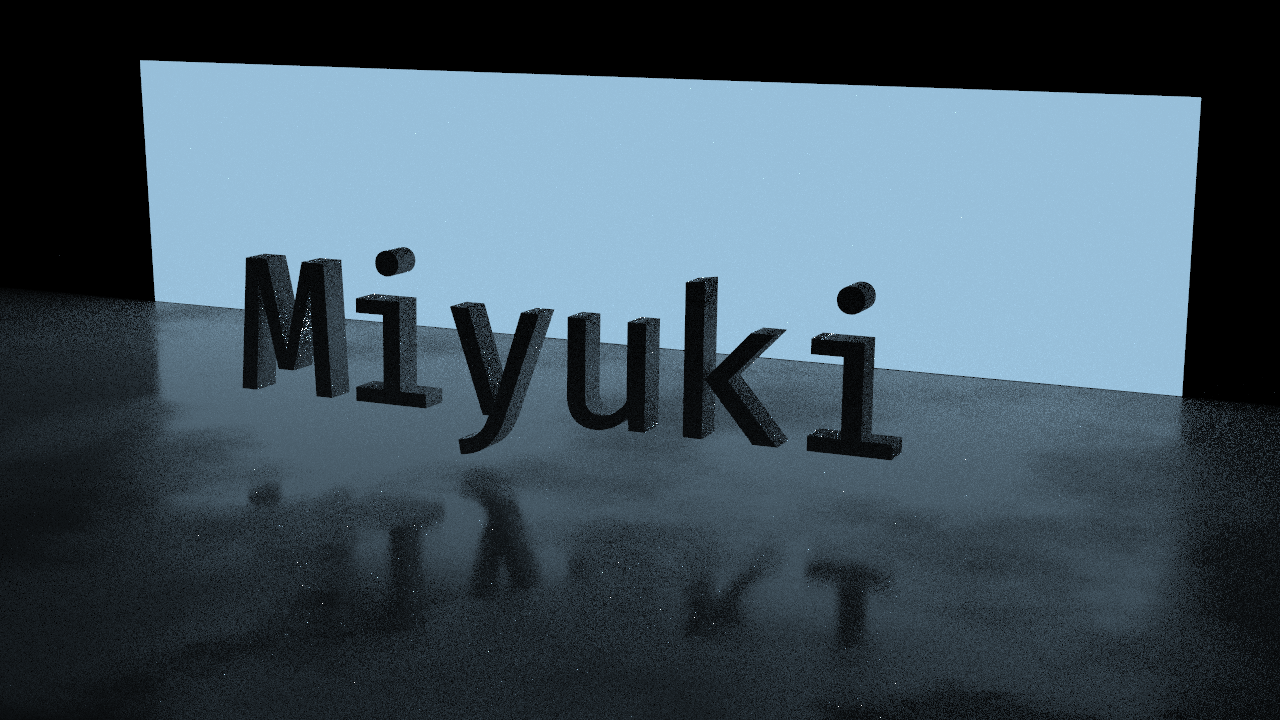
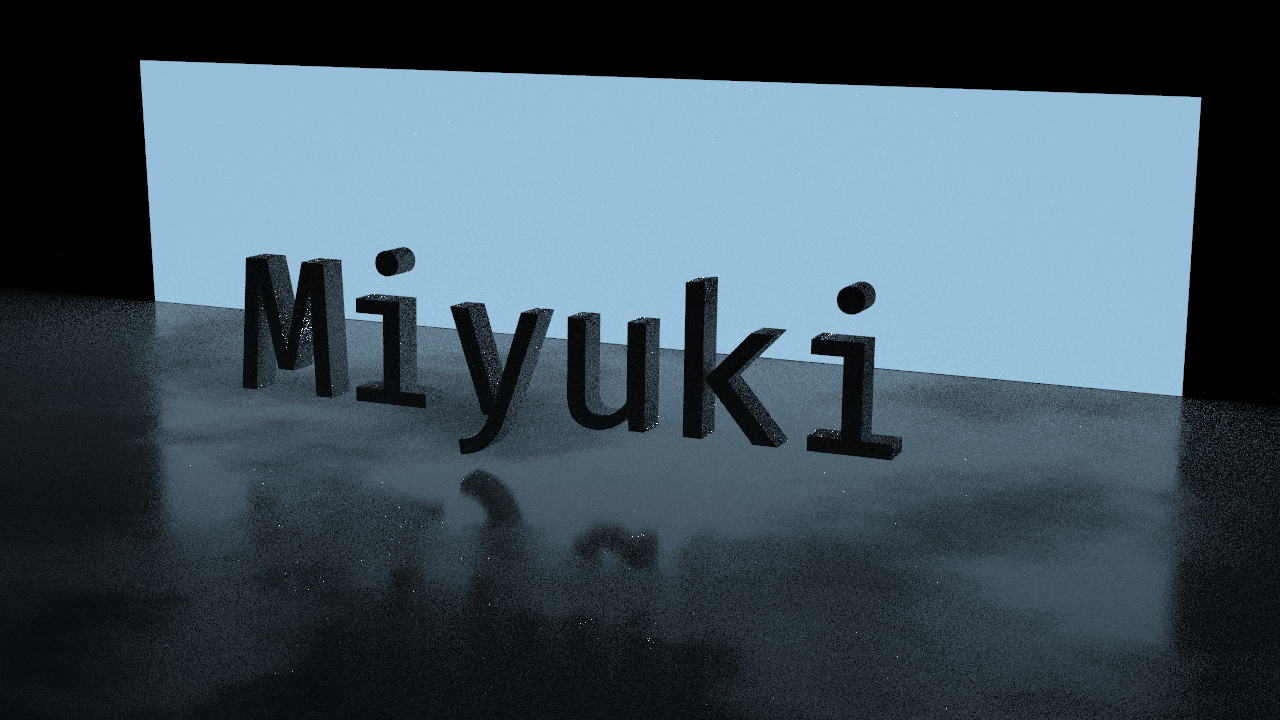
added Accelerator::occlude

diff --git a/src/core/integrators/pt.cpp b/src/core/integrators/pt.cpp
@@ -51,7 +51,7 @@ namespace miyuki::core {
         Profiler profiler;
         auto filmPtr = std::make_shared<Film>(settings.filmDimension);
         auto &film = *filmPtr;
-        log::log("Integrator: Pathtracer, samples: {}\n", spp);
+        log::log("Integrator: MIS Path Tracer, samples: {}\n", spp);
 
         auto backgroundLi = [=](const Ray &ray) -> Spectrum {
             return Spectrum(0);
@@ -167,24 +167,34 @@ namespace miyuki::core {
             return RemoveNaN(clamp(Li, vec3(0), vec3(1e16f)));
         };
 
+        const size_t tileSize = 64;
+        std::vector<BoundBox<2, int, qualifier::defaultp>> tiles;
+        for (int i = 0; i < film.width; i += tileSize) {
+            for (int j = 0; j < film.height; j += tileSize) {
+                tiles.push_back({ivec2(i, j), min(ivec2(film.width, film.height), ivec2(i + tileSize, j + tileSize))});
+            }
+        }
+
         std::mutex _reporterMutex;
-        ProgressReporter reporter(film.height, [=, &_reporterMutex](size_t cur, size_t total) {
+        ProgressReporter reporter(tiles.size(), [=, &_reporterMutex](size_t cur, size_t total) {
             std::unique_lock<std::mutex> lock(_reporterMutex, std::try_to_lock);
             if (lock.owns_lock()) {
                 PrintProgressBar(double(cur) / total);
             }
         });
-        ParallelFor(0, film.height, [=, &film, &reporter](int64_t j, uint64_t) {
+        ParallelFor(0, tiles.size(), [=, &tiles, &film, &reporter](int64_t i, uint64_t) {
             auto sampler = settings.sampler->clone();
-            for (int i = 0; i < film.width && cont(); i++) {
-
-                sampler->startPixel(Point2i(i, j), Point2i(film.width, film.height));
-                for (int s = 0; s < spp && cont(); s++) {
-                    CameraSample sample;
-                    sampler->startNextSample();
-                    settings.camera->generateRay(sampler->next2D(), sampler->next2D(), Point2i(i, j),
-                                                 Point2i(film.width, film.height), sample);
-                    film.addSample(sample.pFilm, Li(*sampler, sample.ray), 1);
+            auto &tile = tiles[i];
+            for (int y = tile.pMin.y; cont() && y < tile.pMax.y; y++) {
+                for (int x = tile.pMin.x; x < tile.pMax.x; x++) {
+                    sampler->startPixel(Point2i(x, y), Point2i(film.width, film.height));
+                    for (int s = 0; s < spp && cont(); s++) {
+                        CameraSample sample;
+                        sampler->startNextSample();
+                        settings.camera->generateRay(sampler->next2D(), sampler->next2D(), Point2i(x, y),
+                                                     Point2i(film.width, film.height), sample);
+                        film.addSample(sample.pFilm, Li(*sampler, sample.ray), 1);
+                    }
                 }
             }
             reporter.update();

diff --git a/src/core/accelerators/sahbvh.cpp b/src/core/accelerators/sahbvh.cpp
@@ -126,7 +126,7 @@ namespace miyuki::core {
                         Bounds3f b0{{MaxFloat, MaxFloat, MaxFloat},
                                     {MinFloat, MinFloat, MinFloat}};
                         Bounds3f b1{{MaxFloat, MaxFloat, MaxFloat},
-                           {MinFloat, MinFloat, MinFloat}};
+                                    {MinFloat, MinFloat, MinFloat}};
                         int count0 = 0, count1 = 0;
                         for (int j = 0; j <= i; j++) {
                             b0 = b0.unionOf(buckets[j].bound);
@@ -190,7 +190,7 @@ namespace miyuki::core {
         bool intersect(const Ray &ray, Intersection &isct) const {
             bool hit = false;
             auto invd = Vec3f(1) / ray.d;
-            constexpr int maxDepth = 128;
+            constexpr int maxDepth = 64;
             const BVHNode *stack[maxDepth];
             int sp = 0;
             stack[sp++] = &nodes[0];
@@ -217,6 +217,37 @@ namespace miyuki::core {
             return hit;
         }
 
+        bool occlude(const Ray &ray) {
+            Intersection isct;
+            bool hit = false;
+            auto invd = Vec3f(1) / ray.d;
+            constexpr int maxDepth = 64;
+            const BVHNode *stack[maxDepth];
+            int sp = 0;
+            stack[sp++] = &nodes[0];
+            while (sp > 0) {
+                auto p = stack[--sp];
+                auto t = intersectAABB(p->box, ray, invd);
+
+                if (t < 0 || t > isct.distance) {
+                    continue;
+                }
+                if (p->isLeaf()) {
+                    for (int i = p->first; i < p->first + p->count; i++) {
+                        if (primitive[i].intersect(ray, isct)) {
+                            return true;
+                        }
+                    }
+                } else {
+                    if (p->left >= 0)
+                        stack[sp++] = &nodes[p->left];
+                    if (p->right >= 0)
+                        stack[sp++] = &nodes[p->right];
+                }
+            }
+            return false;
+        }
+
         [[nodiscard]] Bounds3f getBoundingBox() const { return boundBox; }
     };
 
@@ -238,6 +269,14 @@ namespace miyuki::core {
             isct.p = isct.distance * ray.d + ray.o;
         }
         return hit;
+    }
+
+    bool BVHAccelerator::occlude(const struct miyuki::core::Ray &ray) {
+        for (auto i : internal) {
+            if (i->occlude(ray))
+                return true;
+        }
+        return false;
     }
 
     BVHAccelerator::~BVHAccelerator() {

diff --git a/src/core/accelerators/embree-backend.cpp b/src/core/accelerators/embree-backend.cpp
@@ -57,12 +57,12 @@ namespace miyuki::core {
             for (const auto &mesh : scene.meshes) {
                 auto geometry = rtcNewGeometry(device, RTC_GEOMETRY_TYPE_TRIANGLE);
                 rtcSetSharedGeometryBuffer(geometry, RTC_BUFFER_TYPE_VERTEX, 0,
-                                                                  RTC_FORMAT_FLOAT3,
-                                                                     &mesh->_vertex_data.position[0][0],0,
-                                                                  sizeof(Float) * 3,
-                                                                  mesh->_vertex_data.position.size());
-                rtcSetSharedGeometryBuffer(geometry,RTC_BUFFER_TYPE_INDEX,0,RTC_FORMAT_UINT3, &mesh->triangles[0],0,
-                        sizeof(MeshTriangle),mesh->triangles.size());
+                                           RTC_FORMAT_FLOAT3,
+                                           &mesh->_vertex_data.position[0][0], 0,
+                                           sizeof(Float) * 3,
+                                           mesh->_vertex_data.position.size());
+                rtcSetSharedGeometryBuffer(geometry, RTC_BUFFER_TYPE_INDEX, 0, RTC_FORMAT_UINT3, &mesh->triangles[0], 0,
+                                           sizeof(MeshTriangle), mesh->triangles.size());
                 rtcCommitGeometry(geometry);
                 rtcAttachGeometry(rtcScene, geometry);
                 rtcReleaseGeometry(geometry);
@@ -104,6 +104,14 @@ namespace miyuki::core {
             isct.p = ray.o + isct.distance * ray.d;
             return true;
         }
+
+        bool occlude(const Ray &ray) {
+            RTCRay rtcRay = toRTCRay(ray);
+            RTCIntersectContext context;
+            rtcInitIntersectContext(&context);
+            rtcOccluded1(rtcScene, &context, &rtcRay);
+            return rtcRay.tfar < 0;
+        }
     };
 
     EmbreeAccelerator::EmbreeAccelerator() : impl(new Impl()) {}
@@ -111,6 +119,10 @@ namespace miyuki::core {
     void EmbreeAccelerator::build(Scene &scene) { impl->build(scene); }
 
     bool EmbreeAccelerator::intersect(const Ray &ray, Intersection &isct) { return impl->intersect(ray, isct); }
+
+    bool EmbreeAccelerator::occlude(const struct miyuki::core::Ray &ray) {
+        return impl->occlude(ray);
+    }
 
     EmbreeAccelerator::~EmbreeAccelerator() { delete impl; }
 

diff --git a/src/core/lights/arealight.cpp b/src/core/lights/arealight.cpp
@@ -38,15 +38,16 @@ namespace miyuki::core {
         triangle->sample(u, surfaceSample);
         auto wi = surfaceSample.p - isct.p;
         auto dist2 = dot(wi,wi);
-        wi /= std::sqrt(dist2);
-        tester.shadowRay = Ray(surfaceSample.p, -wi, RayBias / abs(dot(sample.wi, surfaceSample.normal)), std::sqrt(dist2));
+        auto dist = std::sqrt(dist2);
+        wi /= dist;
+        tester.shadowRay = Ray(surfaceSample.p, -wi, RayBias / abs(dot(sample.wi, surfaceSample.normal)), dist * 0.99);
         tester.target = isct.shape;
         ShadingPoint sp;
         sp.Ng = triangle->Ng();
         sp.Ns = triangle->normalAt(surfaceSample.uv);
         sp.texCoord = triangle->texCoordAt(surfaceSample.uv);
         sample.Li = Li(sp);
-        sample.wi = normalize(wi);
+        sample.wi = wi;
         sample.pdf = dist2 / (-dot(sample.wi, surfaceSample.normal)) * surfaceSample.pdf;
     }
 

diff --git a/src/core/visibility.cpp b/src/core/visibility.cpp
@@ -25,11 +25,6 @@
 
 namespace miyuki::core {
     bool VisibilityTester::visible(miyuki::core::Scene &scene) {
-        Intersection isct;
-        if (!scene.intersect(shadowRay, isct) || isct.distance >= shadowRay.tMax * 0.99) {
-            return true;
-        }
-        if (target && isct.shape == target)return true;
-        return false;
+       return !scene.occlude(shadowRay);
     }
 }

diff --git a/src/core/accelerators/nanort-backend.h b/src/core/accelerators/nanort-backend.h
@@ -33,7 +33,7 @@ namespace miyuki::core {
         Impl *impl = nullptr;
     public:
         NanoRTAccelerator();
-        MYK_DECL_CLASS(NanoRTAccelerator, "NanoRTAccelerator", interface = "Accelerator")
+      //  MYK_DECL_CLASS(NanoRTAccelerator, "NanoRTAccelerator", interface = "Accelerator")
 
         void build(Scene &scene) override;
 

diff --git a/src/core/accelerators/embree-backend.h b/src/core/accelerators/embree-backend.h
@@ -40,6 +40,8 @@ namespace miyuki::core {
 
         bool intersect(const Ray &ray, Intersection &isct) override;
 
+        bool occlude(const Ray & ray)override;
+
         bool4 intersect4(const Ray4 &ray, Intersection4 &isct) override;
 
         bool8 intersect8(const Ray8 &ray, Intersection8 &isct) override;

diff --git a/include/miyuki.renderer/accelerator.h b/include/miyuki.renderer/accelerator.h
@@ -37,6 +37,8 @@ namespace miyuki::core {
 
         virtual bool intersect(const Ray &ray, Intersection &isct) = 0;
 
+        virtual bool occlude(const Ray &ray) = 0;
+
         virtual bool4 intersect4(const Ray4 &ray, Intersection4 &isct) {
             MIYUKI_NOT_IMPLEMENTED();
         }

diff --git a/include/miyuki.renderer/scene.h b/include/miyuki.renderer/scene.h
@@ -47,6 +47,8 @@ namespace miyuki::core {
 
         bool intersect(const Ray &ray, Intersection &isct);
 
+        bool occlude(const Ray & ray);
+
         void preprocess();
 
         [[nodiscard]] size_t getRayCounter() const { return rayCounter; }

diff --git a/src/core/scene.cpp b/src/core/scene.cpp
@@ -60,4 +60,9 @@ namespace miyuki::core {
         }
         return false;
     }
+
+    bool Scene::occlude(const miyuki::core::Ray & ray) {
+        rayCounter++;
+        return accelerator->occlude(ray);
+    }
 } // namespace miyuki::core

diff --git a/src/core/accelerators/sahbvh.h b/src/core/accelerators/sahbvh.h
@@ -41,6 +41,8 @@ namespace miyuki::core {
 
         bool intersect(const Ray &ray, Intersection &isct) override;
 
+        bool occlude(const Ray & ray)override;
+
         ~BVHAccelerator();
     };
 }
